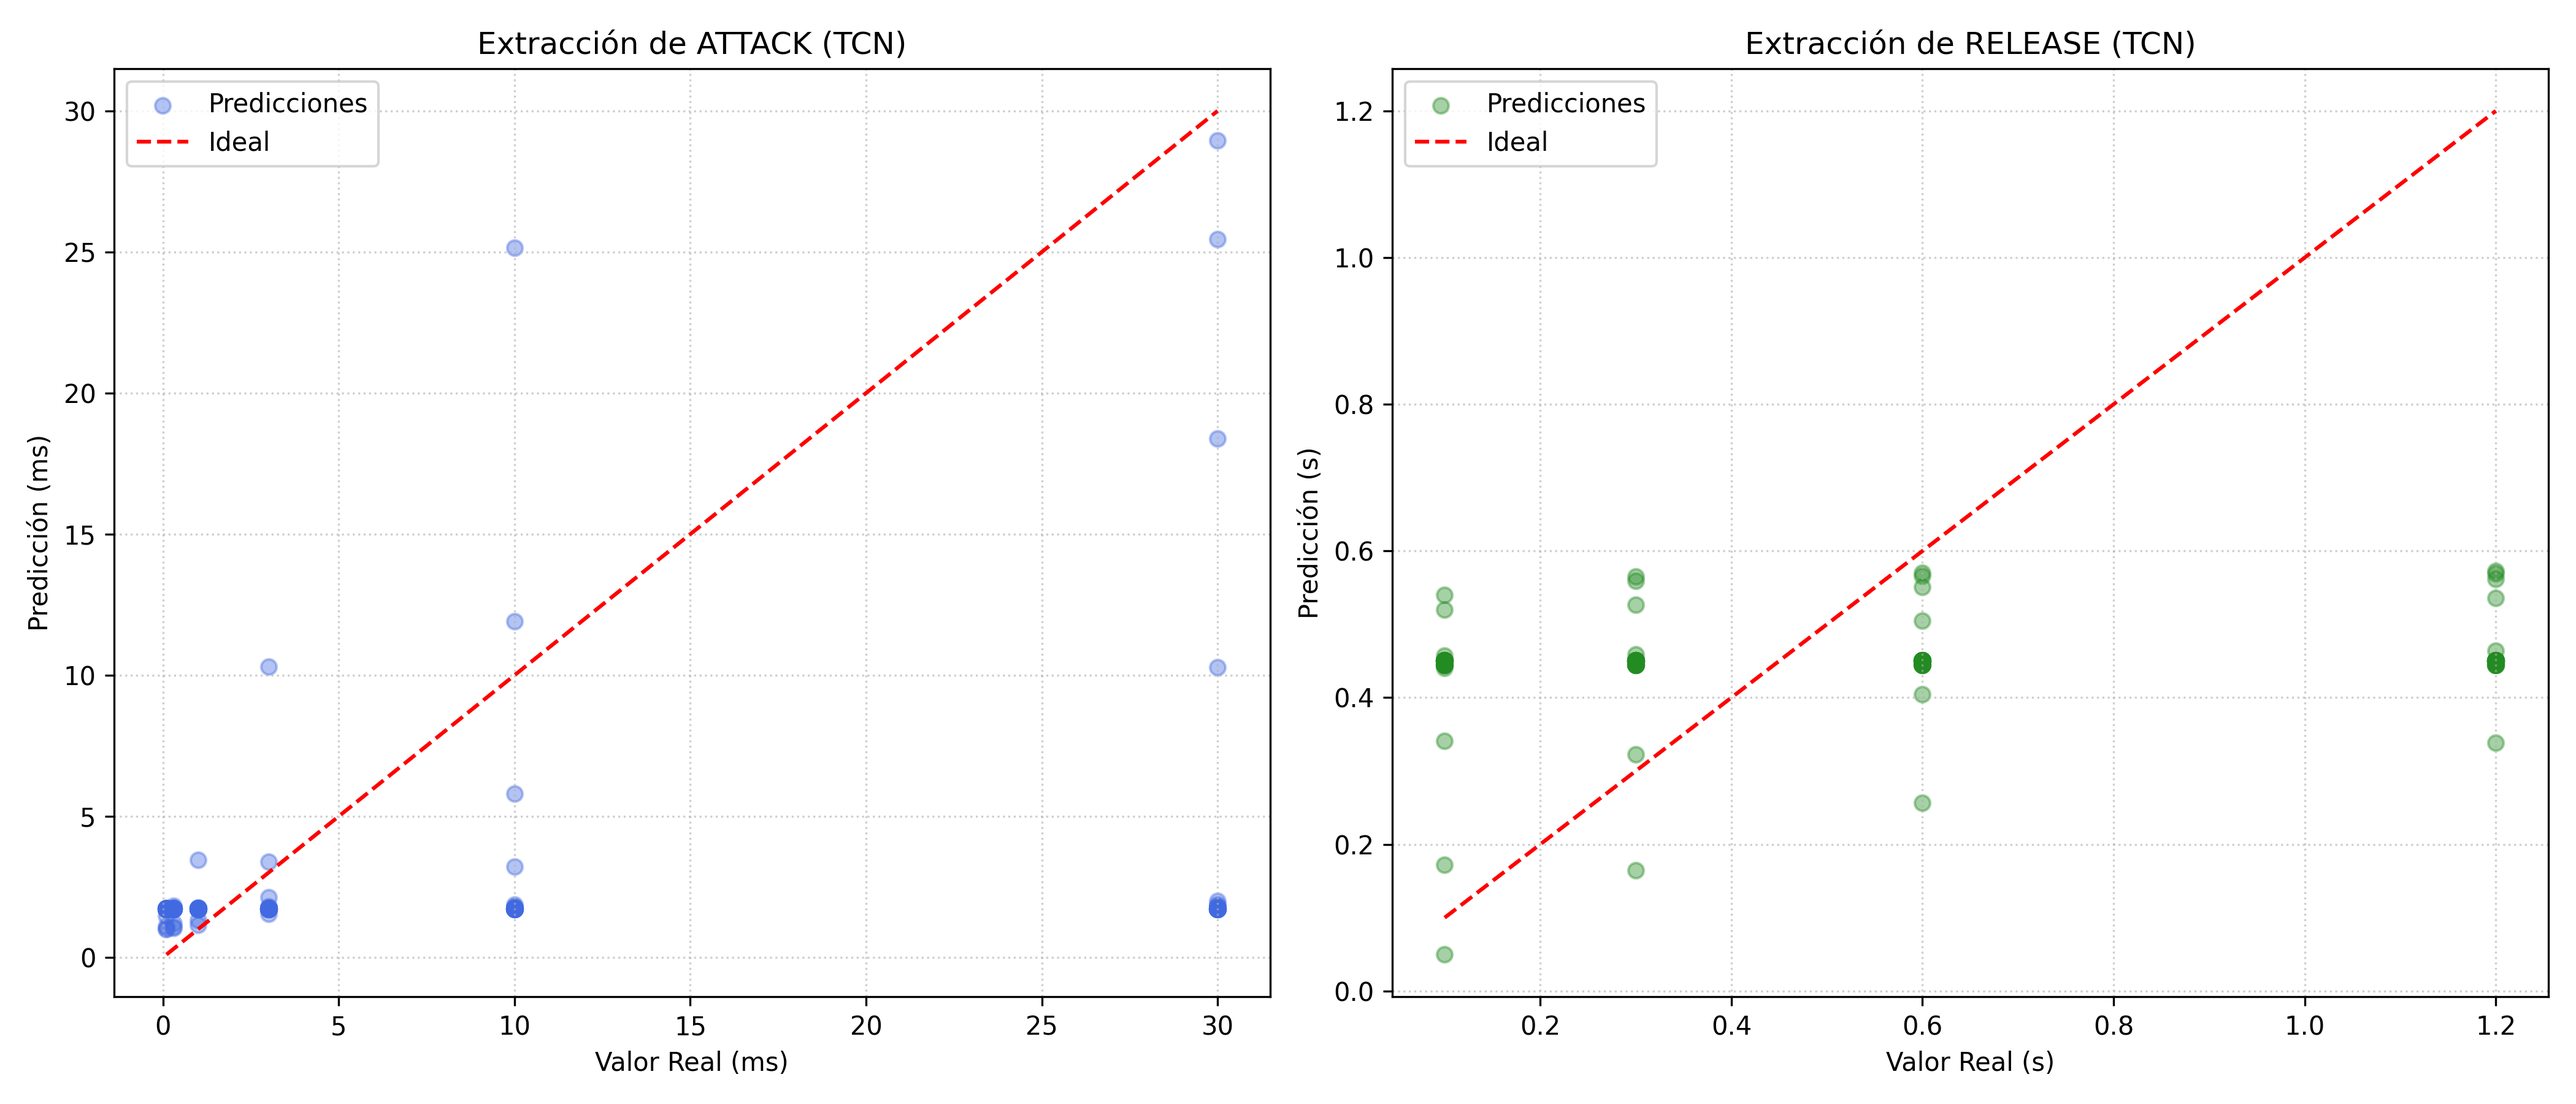
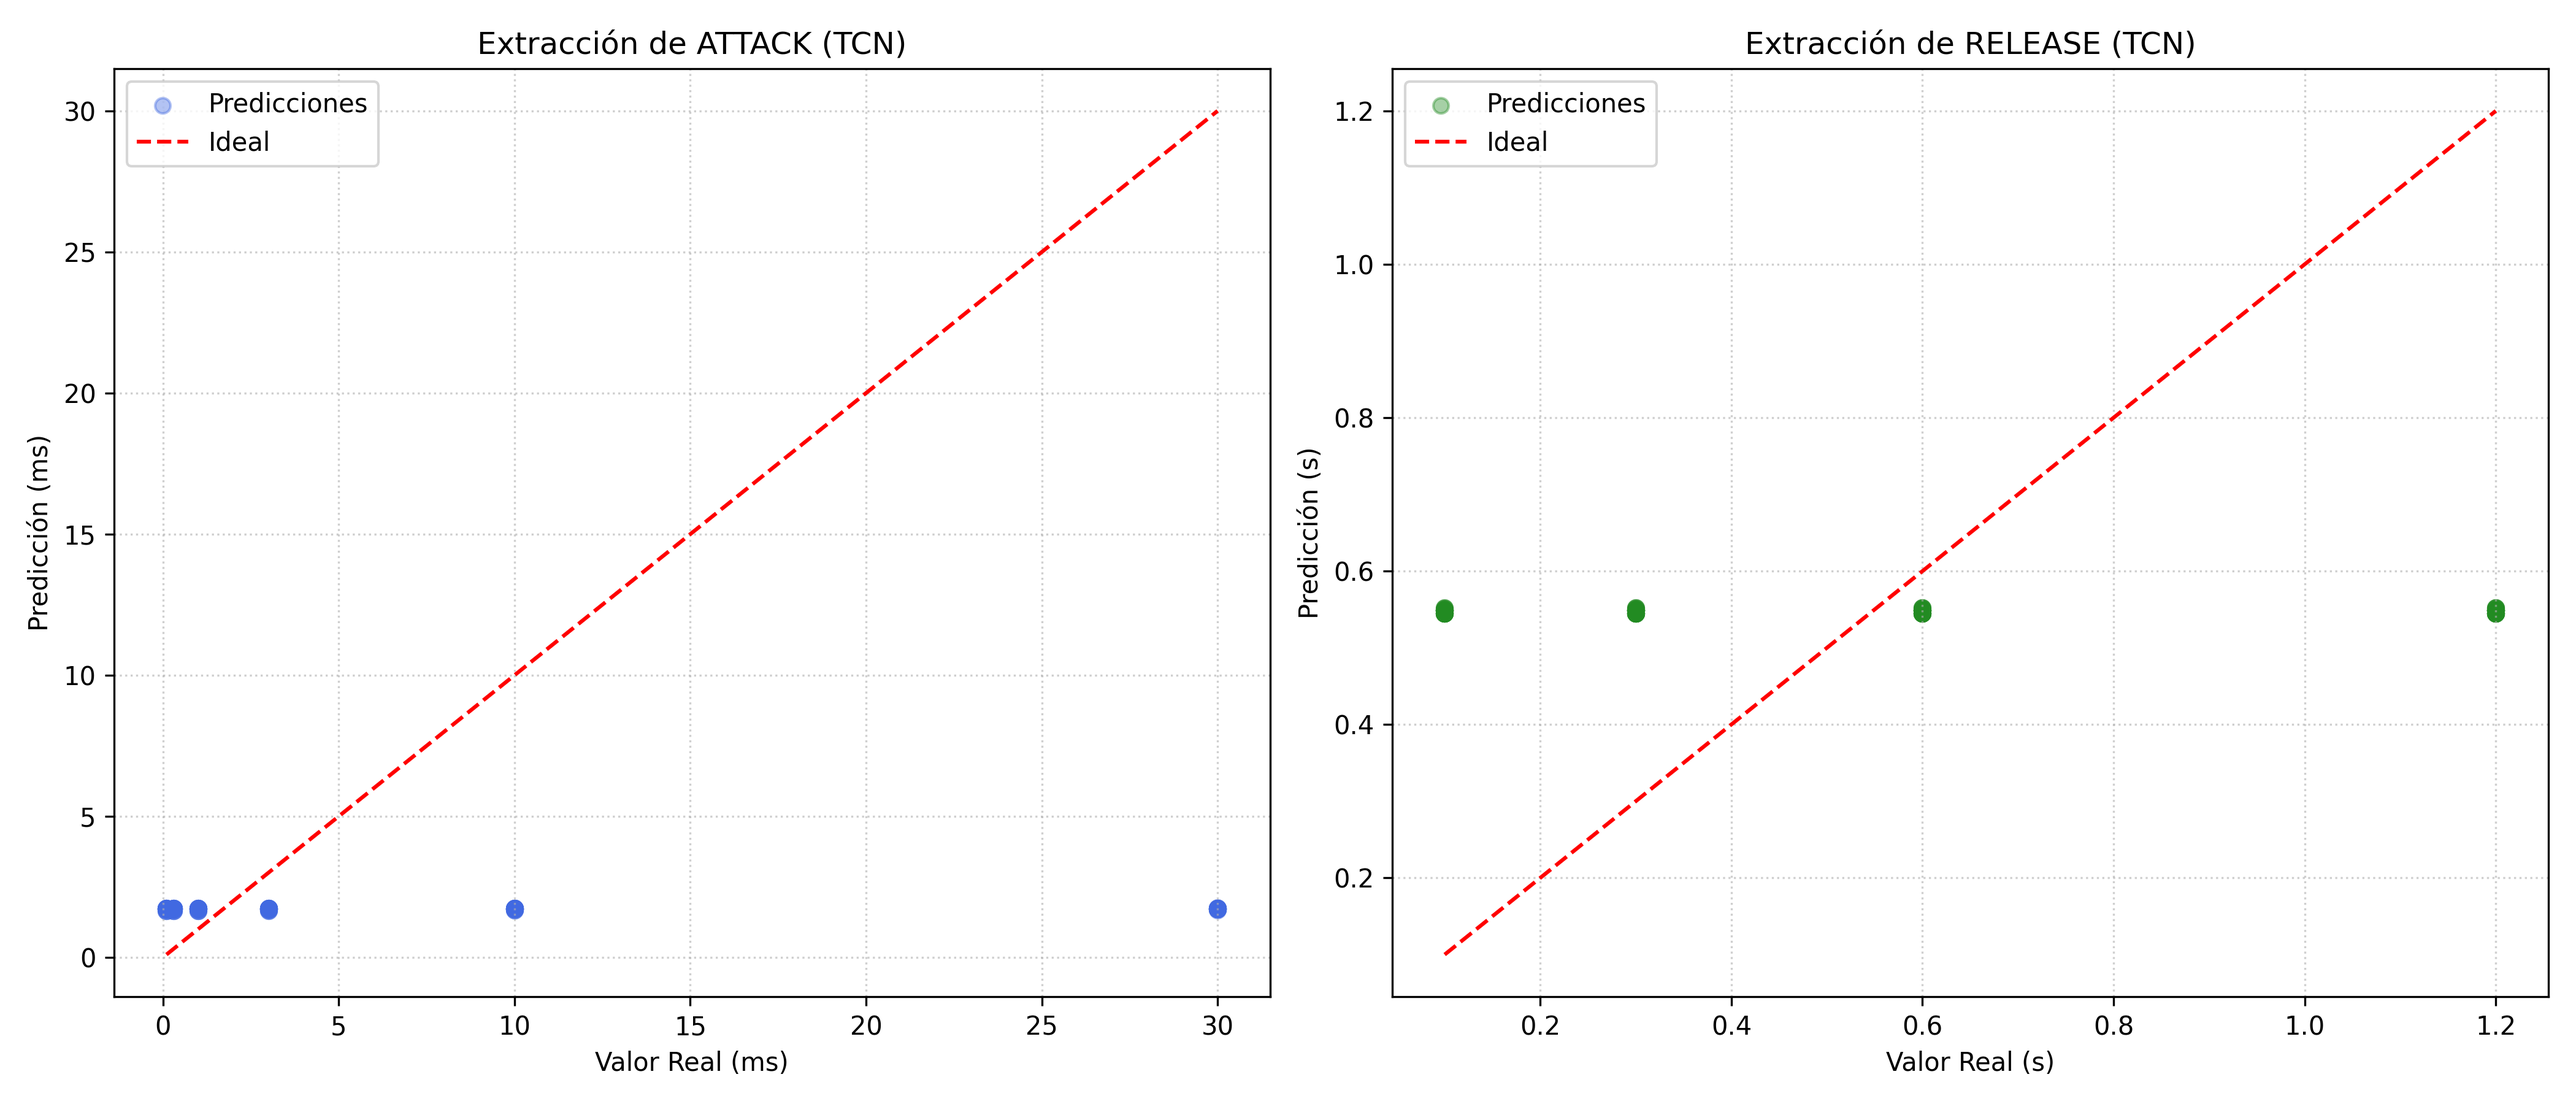
More changes

diff --git a/data_utils/dataset.py b/data_utils/dataset.py
@@ -1,73 +1,57 @@
 import torch
-import numpy as np
 import pandas as pd
-import os
 import librosa
 from torch.utils.data import Dataset
 from tqdm import tqdm
 from pathlib import Path
 
 class CompressorDataset(Dataset):
-    def __init__(self, csv_path, audio_root, stage='train', target_sr=16000, duration_samples=16000):
+    def __init__(self, csv_path, audio_root, stage='train', target_sr=16000, duration_samples=32000):
         self.metadata = pd.read_csv(csv_path)
         self.metadata = self.metadata[self.metadata['stage'] == stage]
         
-        # Apuntamos a la carpeta del stage (ej: data_ready/train)
         self.audio_root = Path(audio_root).resolve() / stage 
         self.target_sr = target_sr
         self.duration_samples = duration_samples
         
-        self.audio_data = []
-        self.params = []
-        
-        print(f"\n--- CARGANDO DATASET: {stage.upper()} ---")
-        print(f"Ruta: {self.audio_root}")
+        # Guardamos solo las rutas y parámetros, no el audio (ahorro masivo de RAM)
+        self.file_list = self.metadata['filename'].tolist()
+        self.attack_list = (self.metadata['attack'] / 30.0).tolist()
+        self.release_list = (self.metadata['release'] / 1.2).tolist()
 
-        for _, row in tqdm(self.metadata.iterrows(), total=len(self.metadata)):
-            filename = row['filename']
-            
-            # Buscamos el original (input) y el procesado (target)
-            path_dry = self.audio_root / "input" / filename
-            path_wet = self.audio_root / "target" / filename
-            
-            if path_dry.exists() and path_wet.exists():
-                try:
-                    # 1. Cargar pistas individuales
-                    audio_dry, _ = librosa.load(str(path_dry), sr=self.target_sr, mono=True)
-                    audio_wet, _ = librosa.load(str(path_wet), sr=self.target_sr, mono=True)
-                    
-                    # 2. Apilar en 2 canales: [0] = Dry, [1] = Wet
-                    waveform = np.stack([audio_dry, audio_wet])
-                    waveform_tensor = torch.from_numpy(waveform).float()
-                    
-                    # 3. ASEGURAR LONGITUD (Padding/Cropping)
-                    # Si es más largo, recortamos
-                    if waveform_tensor.shape[1] > self.duration_samples:
-                        waveform_tensor = waveform_tensor[:, :self.duration_samples]
-                    # Si es más corto, rellenamos con ceros
-                    elif waveform_tensor.shape[1] < self.duration_samples:
-                        padding = self.duration_samples - waveform_tensor.shape[1]
-                        waveform_tensor = torch.nn.functional.pad(waveform_tensor, (0, padding))
-                    
-                    self.audio_data.append(waveform_tensor)
-                    
-                    # 4. Parámetros normalizados (Attack/30, Release/1.2)
-                    self.params.append(torch.tensor([
-                        row['attack'] / 30.0, 
-                        row['release'] / 1.2
-                    ], dtype=torch.float32))
-
-                except Exception as e:
-                    # print(f"Error en {filename}: {e}")
-                    continue
-
-        if len(self.audio_data) == 0:
-            raise RuntimeError(f"No se pudo cargar ningún par de audios en {self.audio_root}")
-        
-        print(f"Cargadas {len(self.audio_data)} muestras con éxito.")
-
-    def __getitem__(self, idx):
-        return self.audio_data[idx], self.params[idx]
+        print(f"\n--- DATASET {stage.upper()} INICIALIZADO ---")
+        print(f"Total archivos: {len(self.file_list)} | Ventana: {duration_samples} samples")
 
     def __len__(self):
-        return len(self.audio_data)
+        return len(self.file_list)
+
+    def __getitem__(self, idx):
+        filename = self.file_list[idx]
+        path_dry = self.audio_root / "input" / filename
+        path_wet = self.audio_root / "target" / filename
+
+        # Cargamos el audio justo en el momento de usarlo
+        audio_dry, _ = librosa.load(str(path_dry), sr=self.target_sr, mono=True)
+        audio_wet, _ = librosa.load(str(path_wet), sr=self.target_sr, mono=True)
+
+        # Si el audio es más corto que lo que pide la red, hacemos padding (ceros)
+        # Si es más largo, lo tomamos entero o lo ajustamos a la ventana
+        if self.duration_samples is not None:
+            # Padding si falta audio
+            if len(audio_dry) < self.duration_samples:
+                pad_len = self.duration_samples - len(audio_dry)
+                audio_dry = librosa.util.pad_center(audio_dry, size=self.duration_samples)
+                audio_wet = librosa.util.pad_center(audio_wet, size=self.duration_samples)
+            # Recorte si sobra audio (puedes cambiar a recorte aleatorio si quieres)
+            elif len(audio_dry) > self.duration_samples:
+                audio_dry = audio_dry[:self.duration_samples]
+                audio_wet = audio_wet[:self.duration_samples]
+
+        waveform = torch.stack([
+            torch.from_numpy(audio_dry).float(),
+            torch.from_numpy(audio_wet).float()
+        ])
+
+        params = torch.tensor([self.attack_list[idx], self.release_list[idx]], dtype=torch.float32)
+
+        return waveform, params

diff --git a/models/tcn.py b/models/tcn.py
@@ -4,20 +4,22 @@ import torch.nn as nn
 class TCNBlock(nn.Module):
     def __init__(self, in_ch, out_ch, kernel_size, dilation, dropout):
         super(TCNBlock, self).__init__()
-        # Usamos padding causal para que la red no "mire al futuro"
         padding = (kernel_size - 1) * dilation
-        self.conv = nn.Conv1d(in_ch, out_ch, kernel_size, 
-                              padding=padding, dilation=dilation)
+        self.conv = nn.Conv1d(in_ch, out_ch, kernel_size, padding=padding, dilation=dilation)
         self.bn = nn.BatchNorm1d(out_ch)
         self.relu = nn.ReLU()
         self.dropout = nn.Dropout(dropout)
         
+        # Conexión residual para que el gradiente fluya
+        self.res_connection = nn.Conv1d(in_ch, out_ch, 1) if in_ch != out_ch else nn.Identity()
+
     def forward(self, x):
-        # El padding causal añade muestras al principio, debemos recortar el final
+        res = self.res_connection(x) # Guardamos la entrada traducida
         out = self.conv(x)
         if self.conv.padding[0] > 0:
             out = out[:, :, :-self.conv.padding[0]]
-        return self.dropout(self.relu(self.bn(out)))
+        out = self.dropout(self.relu(self.bn(out)))
+        return out + res  # <--- AQUÍ ESTÁ LA MAGIA: SUMAMOS LA ENTRADA
 
 class TCNRegressor(nn.Module):
     def __init__(self, n_inputs=2, n_outputs=2, num_channels=[64, 64, 128, 128, 256, 256, 512], kernel_size=5, dropout=0.2):

diff --git a/train.py b/train.py
@@ -9,7 +9,7 @@ import os
 # --- Configuración ---
 DEVICE = torch.device("cuda" if torch.cuda.is_available() else "cpu")
 BATCH_SIZE = 8
-LR = 5e-4       # Subimos ligeramente el LR inicial para salir de la "zona plana"
+LR = 3e-4       # Subimos ligeramente el LR inicial para salir de la "zona plana"
 EPOCHS = 200    # Aumentamos épocas para permitir mayor refinamiento
 AUDIO_ROOT = 'data_ready'
 METADATA_CSV = 'data_ready/metadata.csv'

diff --git a/README.md b/README.md
@@ -1,1 +1,32 @@
-# UPF_TFG
+📂 Guía de Reproducción del Dataset
+Este repositorio no incluye los archivos de audio debido a su gran tamaño. Para replicar los resultados del entrenamiento, sigue estos pasos:
+
+1. Estructura de Carpetas
+Asegúrate de que tu directorio local tenga la siguiente estructura:
+
+Plaintext
+/UPF_TFG
+│
+├── /data
+│   ├── /raw_input    <-- Coloca aquí tus audios originales (Dry)
+│   └── /processed    <-- Carpetas del compresor con variaciones (Wet)
+│
+├── /data_ready       <-- Se generará automáticamente (Ignorada por Git)
+└── /data_utils
+    └── prepare_dataset.py
+2. Preparación de los Datos
+Ejecuta el script de pre-procesamiento. Este script segmentará los audios en fragmentos de 2 segundos, realizará el resampleado a 16kHz y generará el archivo de metadatos necesario para el entrenamiento.
+
+Bash
+python data_utils/prepare_dataset.py
+3. Entrenamiento
+Una vez generada la carpeta data_ready, puedes lanzar el entrenamiento de la TCN:
+
+Bash
+python train.py
+4. Notas Técnicas
+Duración: Se han utilizado fragmentos de 2 segundos para asegurar que el modelo capture la envolvente completa de compresión (incluyendo el tiempo de Release máximo de 1.2s).
+
+Entrada: El modelo recibe 2 canales (Canal 0: Dry, Canal 1: Wet).
+
+Normalización: Los tiempos de Attack y Release se normalizan internamente entre 0 y 1 dividiendo por 30 y 1.2 respectivamente.
